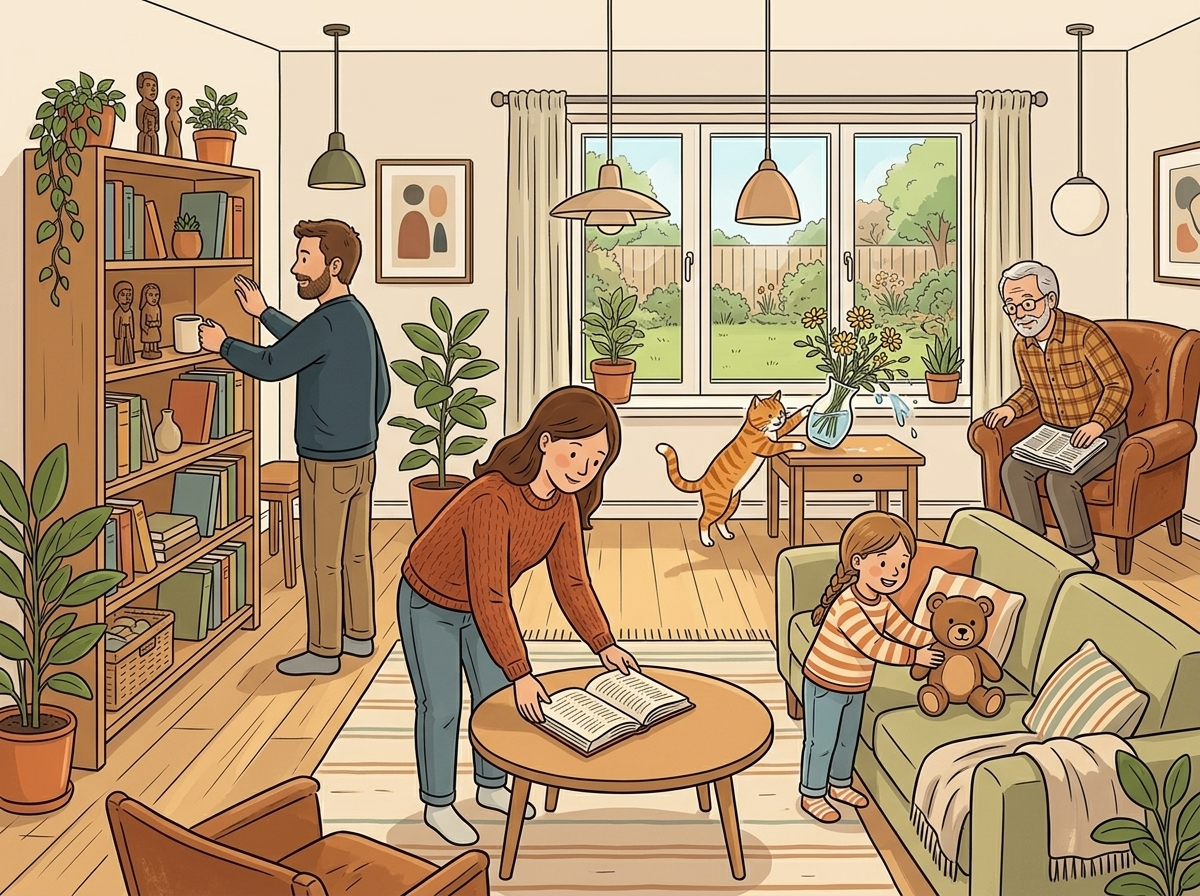
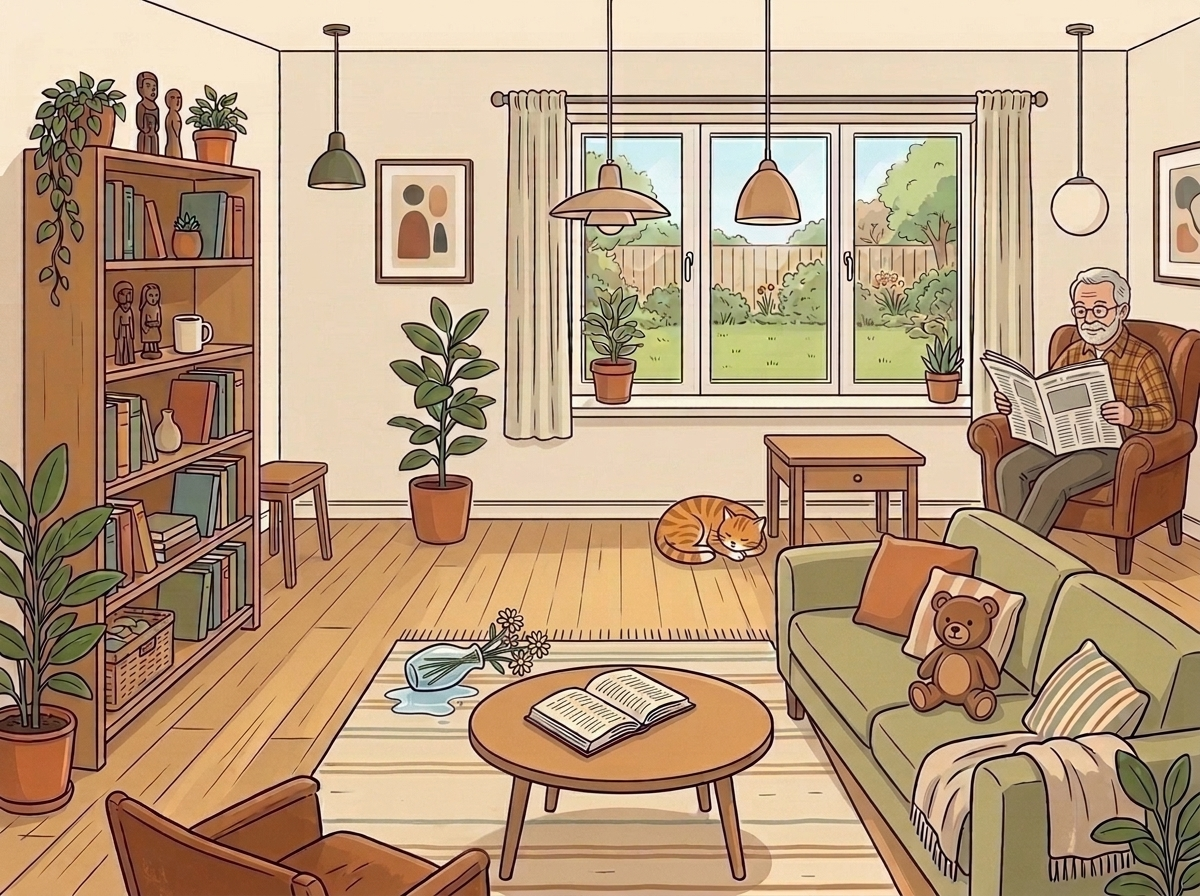
fix: erstat identisk hoejre-vrimlebillede og ret hotspots i Kroppens kraft vs. tingens hvile

diff --git a/src/views/SansningKraftHvileView.js b/src/views/SansningKraftHvileView.js
@@ -29,15 +29,15 @@ export function renderSansningKraftHvileView(container, navigateFn, extraData = 
             title: 'Bogen og bordet (lægge / ligge)',
             icon: '📖',
             left: {
-                x: 30,
-                y: 65,
+                x: 49,
+                y: 78,
                 word: 'lægger',
                 sent: 'Hun lægger bogen på bordet.',
                 exp: 'Hånden griber om bogen, fører den gennem luften og anbringer den (kroppens kraft).'
             },
             right: {
-                x: 30,
-                y: 65,
+                x: 50,
+                y: 78,
                 word: 'ligger',
                 sent: 'Bogen ligger på bordet.',
                 exp: 'Bogen hviler vandret i fuldstændig ro uden menneskelig berøring.'
@@ -49,15 +49,15 @@ export function renderSansningKraftHvileView(container, navigateFn, extraData = 
             title: 'Koppen og hylden (stille / stå)',
             icon: '☕',
             left: {
-                x: 75,
-                y: 40,
+                x: 16,
+                y: 38,
                 word: 'stiller',
                 sent: 'Han stiller koppen op på hylden.',
                 exp: 'Armen løfter koppen opad og placerer den oprejst på hylden.'
             },
             right: {
-                x: 75,
-                y: 40,
+                x: 16,
+                y: 37,
                 word: 'står',
                 sent: 'Koppen står på hylden.',
                 exp: 'Koppen befinder sig lodret i ro på hylden.'
@@ -69,15 +69,15 @@ export function renderSansningKraftHvileView(container, navigateFn, extraData = 
             title: 'Bamsen i sofaen (sætte / sidde)',
             icon: '🧸',
             left: {
-                x: 52,
-                y: 55,
+                x: 80,
+                y: 73,
                 word: 'sætter',
                 sent: 'Pigen sætter bamsen til rette i sofaen.',
                 exp: 'Barnets hænder flytter bamsen og anbringer den i sofahjørnet.'
             },
             right: {
-                x: 52,
-                y: 55,
+                x: 80,
+                y: 72,
                 word: 'sidder',
                 sent: 'Bamsen sidder i sofaen.',
                 exp: 'Bamsen hviler med bunden i puden i ro.'
@@ -89,15 +89,15 @@ export function renderSansningKraftHvileView(container, navigateFn, extraData = 
             title: 'Katten og blomstervasen (vælte)',
             icon: '🏺',
             left: {
-                x: 82,
-                y: 68,
+                x: 69,
+                y: 49,
                 word: 'væltede',
                 sent: 'Katten væltede vasen med halen.',
                 exp: 'Kattens krop udøvede en ydre kraft på vasen, der fik den til at falde.'
             },
             right: {
-                x: 82,
-                y: 68,
+                x: 38,
+                y: 74,
                 word: 'ligger væltet',
                 sent: 'Vasen væltede og ligger nu på gulvet.',
                 exp: 'Vasen hviler nu vandret på gulvtæppet.'
@@ -106,18 +106,18 @@ export function renderSansningKraftHvileView(container, navigateFn, extraData = 
         },
         {
             key: 'avis',
-            title: 'Mads med avisen (Kropsrammen)',
+            title: 'Mads med avisen (kropsrammen)',
             icon: '📰',
             left: {
-                x: 20,
-                y: 45,
+                x: 89,
+                y: 44,
                 word: 'sætter sig',
                 sent: 'Han sætter sig i lænestolen.',
                 exp: 'Kroppen udfører bevægelsen ned i stolen.'
             },
             right: {
-                x: 20,
-                y: 45,
+                x: 88,
+                y: 46,
                 word: 'sidder og læser',
                 sent: 'Han sidder og læser dagens avis.',
                 exp: 'Kroppen danner en stabil fysisk ramme om læsningen.'
@@ -745,15 +745,14 @@ export function renderSansningKraftHvileView(container, navigateFn, extraData = 
         if (currentQuestionIdx >= quizQuestions.length) {
             panelQuiz.innerHTML = `
                 <div class="ss-quiz-card" style="text-align: center;">
-                    <span style="font-size: 3rem;">🎉</span>
                     <h2 style="font-size: 1.8rem; margin: 0.5rem 0 1rem; color: #f472b6;">
-                        Træningsbane Gennemført!
+                        Træningsbane gennemført!
                     </h2>
                     <p style="font-size: 1.1rem; color: #cbd5e1; margin-bottom: 1.5rem;">
                         Du fik <strong>${quizScore} af ${quizQuestions.length}</strong> rigtige!
                     </p>
                     <button class="ss-back-btn" id="btn-restart-quiz" style="margin: 0 auto; background: #db2777;">
-                        🔄 Tag træningsbanen igen
+                        Tag træningsbanen igen
                     </button>
                 </div>
             `;
@@ -850,7 +849,7 @@ export function renderSansningKraftHvileView(container, navigateFn, extraData = 
                     Kausative par (lægge/ligge, sætte/sidde, stille/stå)
                 </button>
                 <button class="ss-strip-btn" id="btn-sub-liggerlaeser">
-                    🧘 Krops-Rammen ("Ligger og læser" vs. "Læser")
+                    Kropsrammen ("ligger og læser" vs. "læser")
                 </button>
             </div>
 

diff --git a/index.html b/index.html
@@ -6,7 +6,7 @@
     <meta http-equiv="Cache-Control" content="no-cache, no-store, must-revalidate" />
     <meta http-equiv="Pragma" content="no-cache" />
     <meta http-equiv="Expires" content="0" />
-    <meta name="version" content="2026.11.12.1505" />
+    <meta name="version" content="2026.11.12.2305" />
     <title>Træning i dansk</title>
     <!-- Google Fonts for modern typography -->
     <link rel="preconnect" href="https://fonts.googleapis.com">
